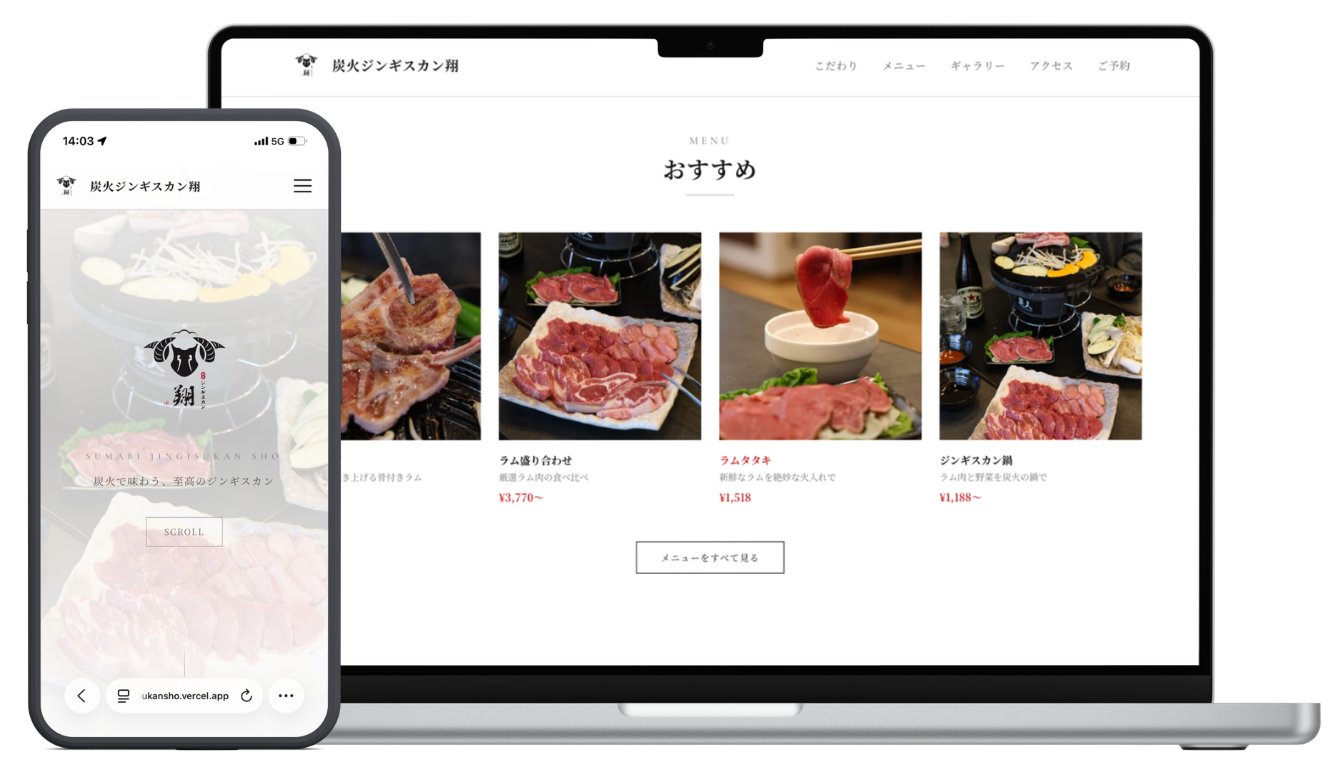
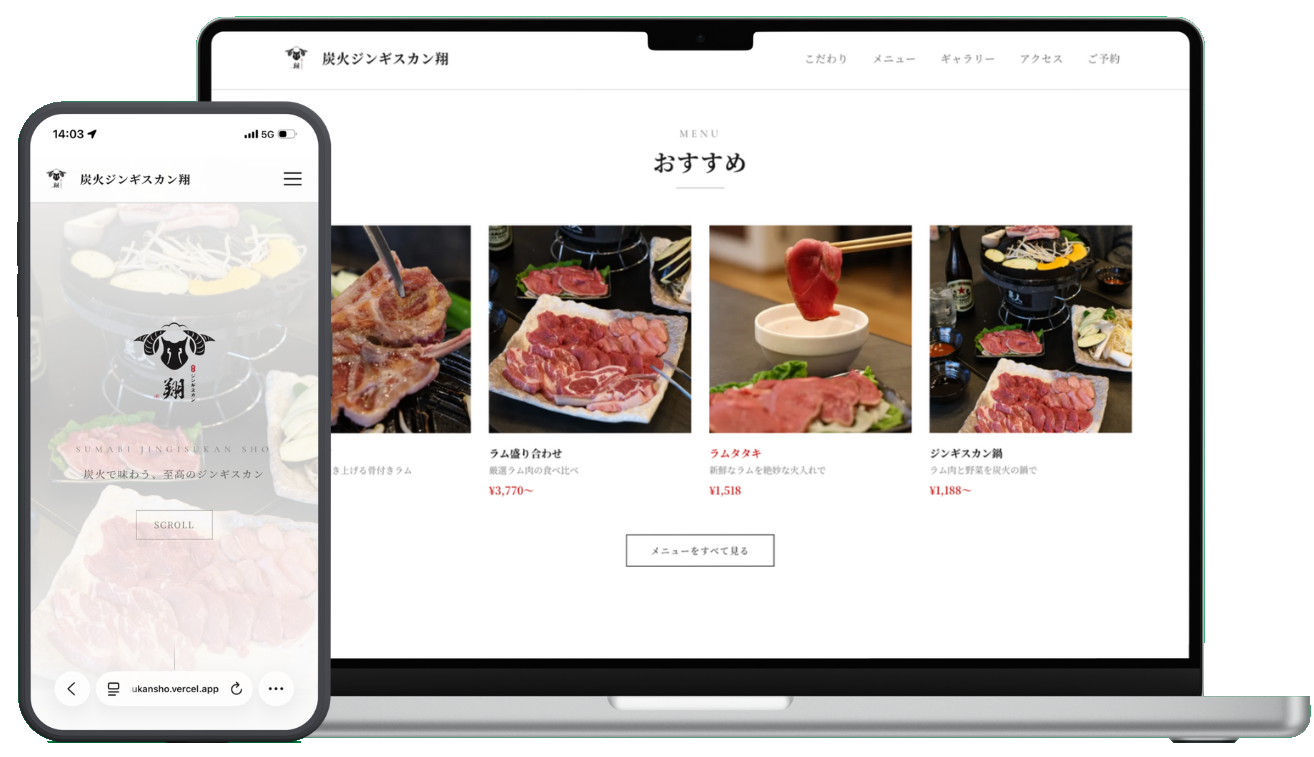
feat: transparent FV.png background and improve FAQ quality
- Remove green background from FV.png
- Expand FAQ from 3 to 8 items covering pricing, timeline, contracts, etc.
- Increase FAQ answer max-height for longer content

diff --git a/src/app/components/FaqSection.tsx b/src/app/components/FaqSection.tsx
@@ -4,16 +4,36 @@ import { useState } from "react";
 
 const faqs = [
   {
-    q: "何を送ればいいですか?",
-    a: "食べログ・Instagram・Googleマップなど、お店の情報がわかるURLをLINEでお送りください。",
+    q: "無料デモでは何を送ればいいですか?",
+    a: "食べログ・Instagram・GoogleマップなどのURLをLINEでお送りいただくだけでOKです。お店の名前とジャンルがわかれば、こちらで情報を集めてデモを作成します。特別な準備は必要ありません。",
   },
   {
-    q: "写真がなくても大丈夫ですか?",
-    a: "すでに公開されている画像を使ったたたき台でのご提案も可能です。正式公開時に差し替えできます。",
+    q: "デモは本当に無料ですか?勝手に契約になりませんか?",
+    a: "はい、デモは完全無料です。デモをご確認いただいた後、気に入っていただけた場合のみ正式なお申し込みとなります。デモを見て「合わないな」と感じた場合は、そのままお断りいただいて問題ありません。",
   },
   {
-    q: "公開後の更新もお願いできますか?",
-    a: "はい、月額プランにてメニューや営業情報の更新を代行いたします。",
+    q: "プロの写真素材がなくても大丈夫ですか?",
+    a: "大丈夫です。食べログやInstagramなど、すでに公開されている写真をもとにデモを作成します。正式制作の際に、お手持ちの写真への差し替えや、必要に応じて撮影のご相談も承ります。",
+  },
+  {
+    q: "制作期間はどれくらいですか?",
+    a: "無料デモは通常3〜5営業日でお送りします。正式制作に進まれた場合は、内容の確認・修正を含めて約2〜4週間が目安です。お急ぎの場合はご相談ください。",
+  },
+  {
+    q: "ライトプランとスタンダードプランの違いは?",
+    a: "ライトプランは1ページにお店の基本情報をまとめたシンプルなサイトです。スタンダードプランはメニューやギャラリーなど複数ページ構成に加え、Googleマップの整備やお知らせ更新など、集客に直結する機能が含まれます。どちらが合うかはデモ後にご提案しますのでご安心ください。",
+  },
+  {
+    q: "月額費用には何が含まれていますか?",
+    a: "サイトの保守・管理に加え、営業時間の変更やメニューの差し替えなど、軽微な更新作業が含まれます。スタンダードプラン以上では、季節メニューの更新やお知らせの追加など、定期的なコンテンツ更新にも対応します。",
+  },
+  {
+    q: "契約期間の縛りはありますか?",
+    a: "最低契約期間は6ヶ月です。その後はいつでも解約いただけます。解約後もサイトのデータはお渡しいたします。",
+  },
+  {
+    q: "自分でサイトを更新できますか?",
+    a: "基本的にはこちらで更新を代行しますので、オーナーさまが操作を覚える必要はありません。LINEで「メニュー変わったので差し替えお願いします」とお伝えいただければ対応いたします。",
   },
 ];
 

diff --git a/src/app/globals.css b/src/app/globals.css
@@ -462,7 +462,7 @@ section { padding: 72px 0; }
   max-height: 0; overflow: hidden;
   transition: max-height .25s ease;
 }
-.faq-item.open .faq-a { max-height: 200px; }
+.faq-item.open .faq-a { max-height: 300px; }
 .faq-a-inner {
   padding: 0 18px 16px 56px;
   font-size: 13px; color: var(--ink-2);
